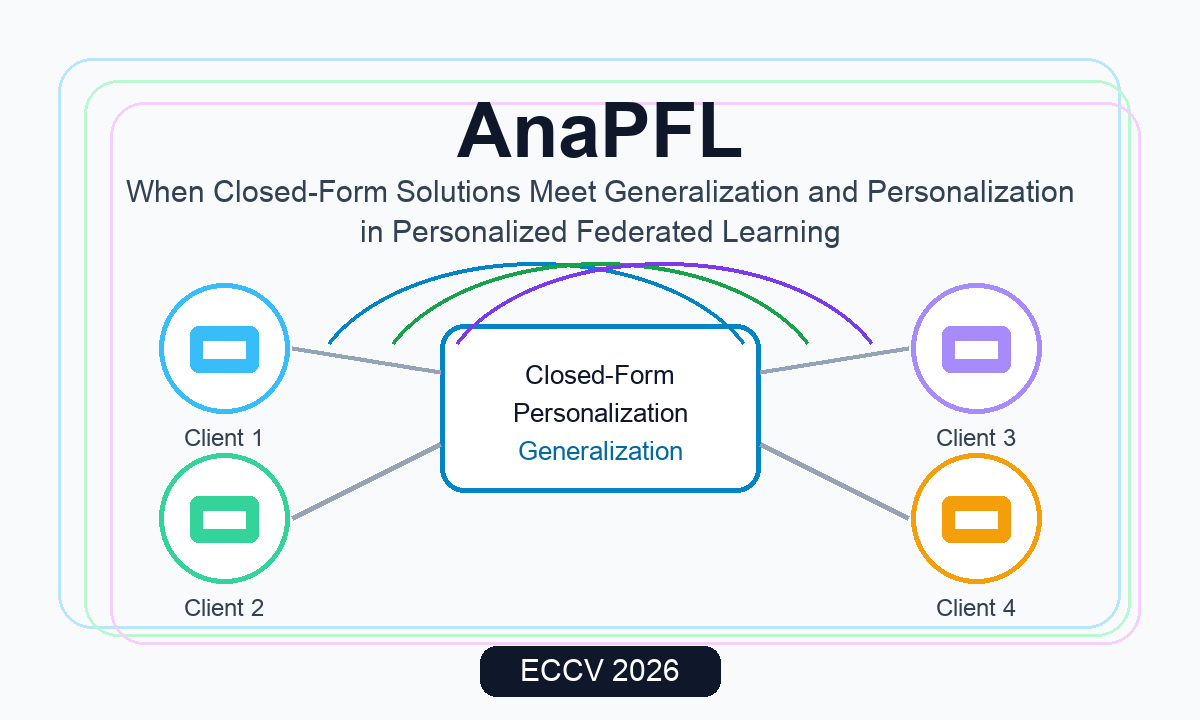
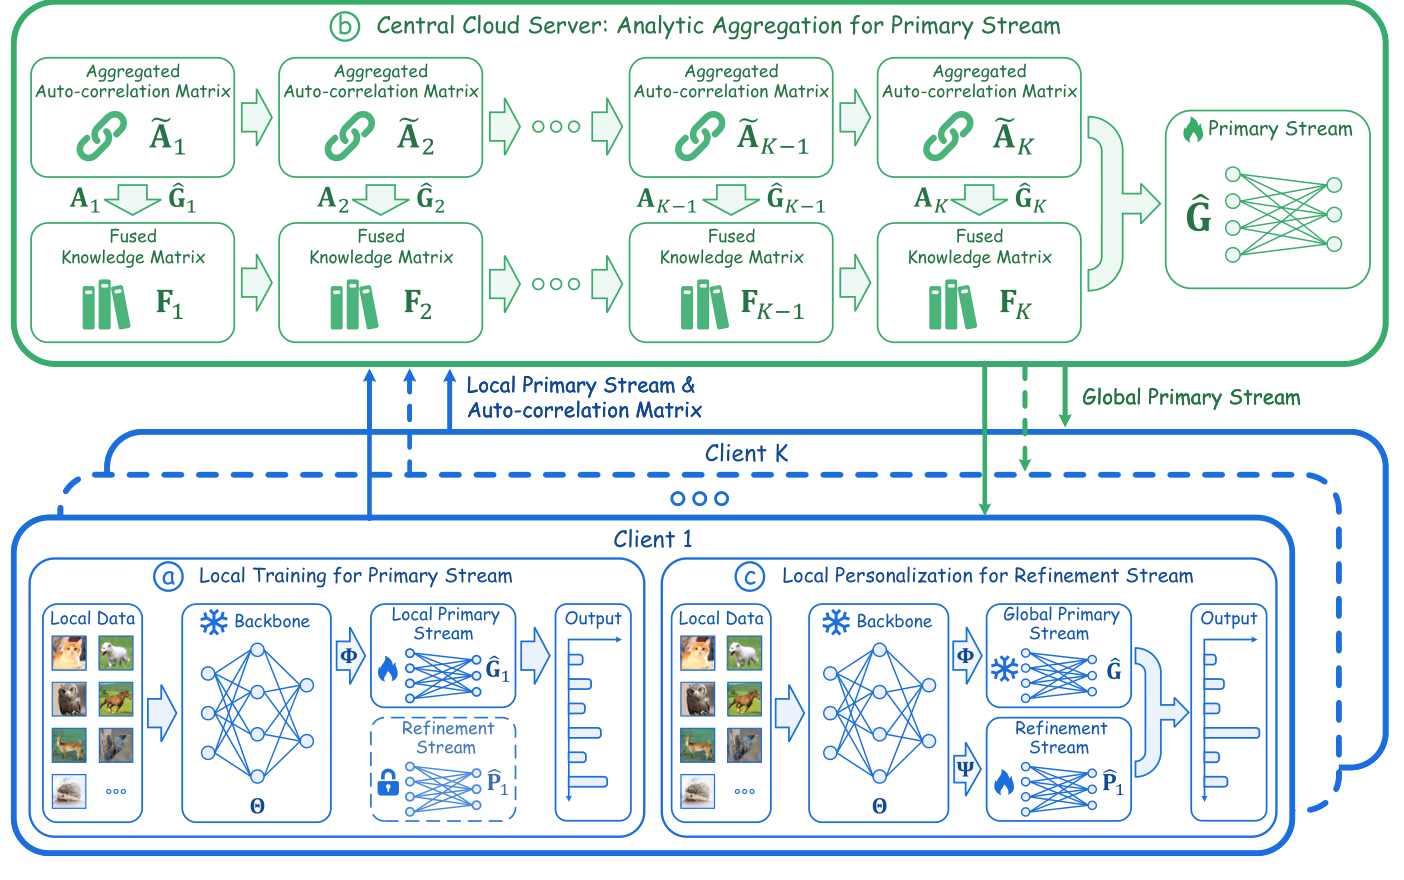
Use paper figures for homepage thumbnails
Replaces the generated AnaPFL thumbnail with a figure cropped from the paper PDF and points Dynamic-V2C cards/project hero at the paper pipeline figure.

Tested: LC_ALL=en_US.UTF-8 LANG=en_US.UTF-8 BUNDLE_IGNORE_CONFIG=1 BUNDLE_PATH=/tmp/xll0328_bundle bundle exec jekyll build

Tested: Playwright local checks for / and /dynamic-v2c/ desktop/mobile: no 404s, no failed image loads, no horizontal overflow.

Changed region(s): [[0.0, 0.0, 1.0, 0.9778]]

diff --git a/_pages/about.md b/_pages/about.md
@@ -125,7 +125,7 @@ If you are interested in any aspect of me, I would love to chat and collaborate.
 <div class="publications-scroll-container">
 
 <h2>2026</h2>
-<div class='paper-box'><div class='paper-box-image'><div><div class="badge">ECCV 2026</div><img src='images/dynamic-v2c/framework.png' alt="Dynamic-V2C: Editable and Continual Vision-to-Concept Bottleneck Models via Influence Functions" loading="lazy" width="400" height="300"></div></div>
+<div class='paper-box'><div class='paper-box-image'><div><div class="badge">ECCV 2026</div><img src='images/dynamic-v2c/pipeline.png' alt="Dynamic-V2C: Editable and Continual Vision-to-Concept Bottleneck Models via Influence Functions" loading="lazy" width="400" height="300"></div></div>
 <div class='paper-box-text' markdown="1">
 
 <strong><a href="https://xll0328.github.io/dynamic-v2c/">Dynamic-V2C: Editable and Continual Vision-to-Concept Bottleneck Models via Influence Functions</a></strong>

diff --git a/_pages/dynamic-v2c.md b/_pages/dynamic-v2c.md
@@ -16,7 +16,7 @@ author_profile: false
       <a class="project-btn secondary" href="#results">Results</a>
     </div>
   </div>
-  <img class="project-hero-figure" src="{{ '/images/dynamic-v2c/framework.png' | relative_url }}" alt="Dynamic-V2C framework">
+  <img class="project-hero-figure" src="{{ '/images/dynamic-v2c/pipeline.png' | relative_url }}" alt="Dynamic-V2C overview pipeline">
 </div>
 
 <div class="project-tldr">